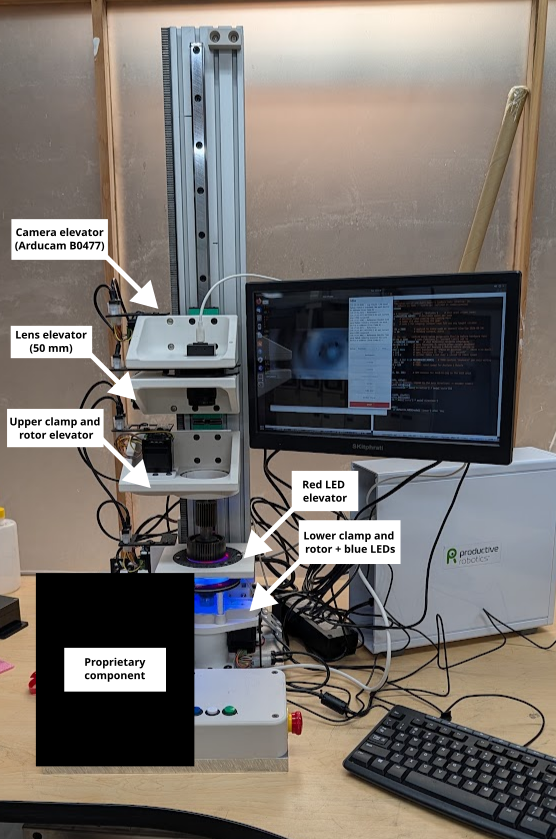
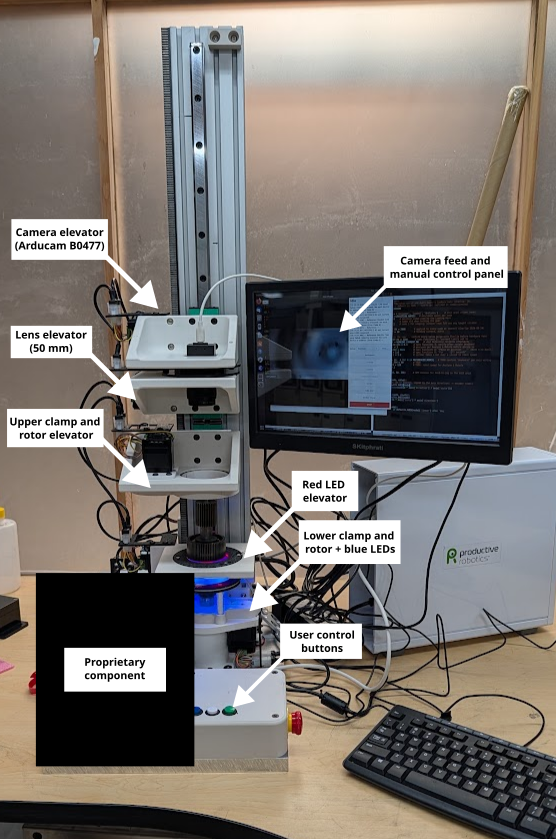
Update wording, update image

diff --git a/_projects/4_gear_analyzer.md b/_projects/4_gear_analyzer.md
@@ -72,7 +72,7 @@ The camera (Arducam B0498) and lens (50 mm) are mounted to two separate elevator
     </div>
 </div>
 
-The feed from the USB camera is analyzed using OpenCV. The gears analzed with this machine are all machined from single pieces of steel. This lack of color contrast makes feature detection somewhat difficult. To remedy this difficulty, the parts are backlit with a blue LED disk. The blue light disk is mounted to the lower clamp-rotor. An elevator with a red LED disk is used to light specific planes of the gears. These two disks light the background of the image blue and the top of the part red leaving the middle of the part dark, allowing several planes of features to be detected.
+The feed from the USB camera is analyzed using OpenCV. The gears analzed with this machine are all machined from single pieces of steel. This lack of color contrast makes feature detection somewhat difficult. Two LED disks, a blue one mounted to the lower clamp rotor and a red one on an elevator, light the background of the image blue and the top of the part red leaving the middle of the part dark, allowing several planes of features to be detected.
 
 {% include elements/figure.html image="assets/gears/contrast.png" caption="Column and camera view (on screen) showing blue and red contrast"%}
 
